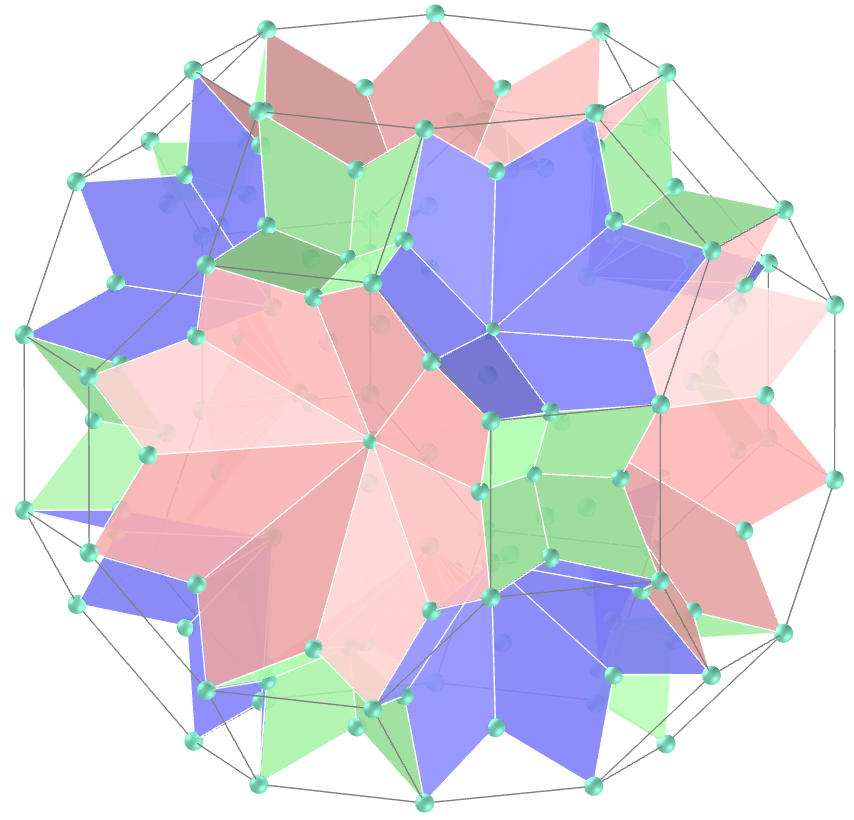
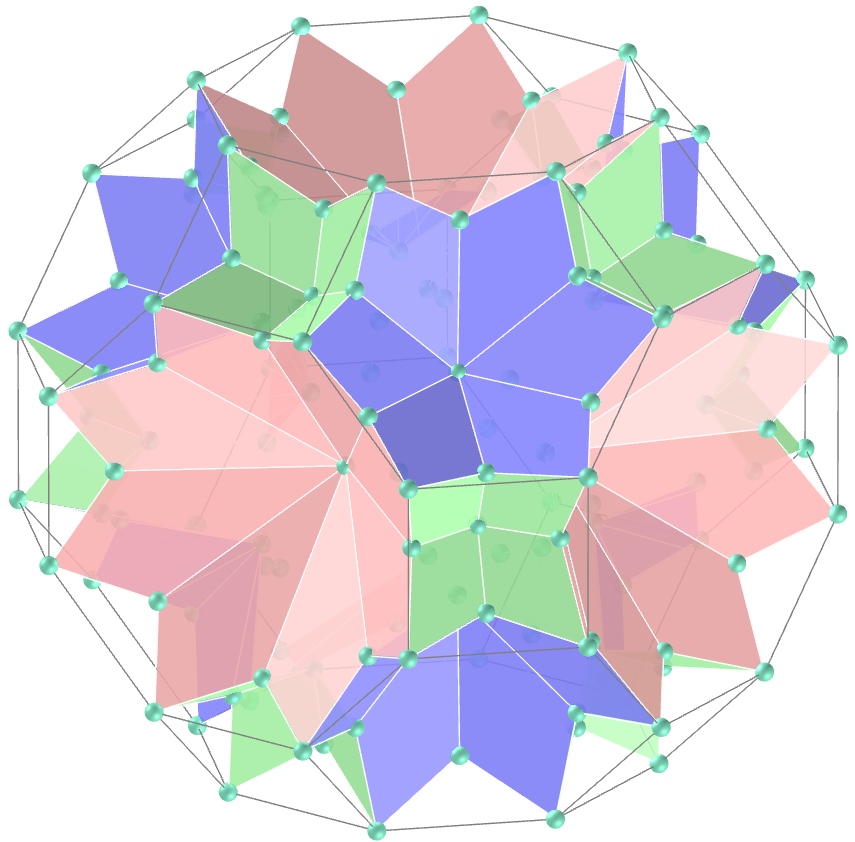
update

diff --git a/kites/vr/Truncated_Dodecahedron.htm b/kites/vr/Truncated_Dodecahedron.htm
@@ -102,7 +102,7 @@
 			<a-sphere mixin='esfera' position='1.590665722 1.358590722 1.734095962'></a-sphere>
 			<a-sphere mixin='esfera' position='0.839655241 1.358590722 2.198245962'></a-sphere>
 			<a-sphere mixin='esfera' position='0.232075 0.839655241 2.573751203'></a-sphere>
-			<a-sphere mixin='esfera' position='0.720221153 -0 1.165342307'></a-sphere>
+			<a-sphere mixin='esfera' position='0.7236750256 -0 1.1709307902'></a-sphere>
 			<a-sphere mixin='esfera' position='0 0 -2.717181443'></a-sphere>
 			<a-sphere mixin='esfera' position='-0.232075 -0.839655241 -2.573751203'></a-sphere>
 			<a-sphere mixin='esfera' position='-0.839655241 -1.358590722 -2.198245962'></a-sphere>
@@ -113,7 +113,7 @@
 			<a-sphere mixin='esfera' position='-1.590665722 1.358590722 -1.734095962'></a-sphere>
 			<a-sphere mixin='esfera' position='-0.839655241 1.358590722 -2.198245962'></a-sphere>
 			<a-sphere mixin='esfera' position='-0.232075 0.839655241 -2.573751203'></a-sphere>
-			<a-sphere mixin='esfera' position='-0.720221153 -0 -1.165342307'></a-sphere>
+			<a-sphere mixin='esfera' position='-0.7236750256 -0 -1.1709307902'></a-sphere>
 			<a-sphere mixin='esfera' position='0 0 2.717181443'></a-sphere>
 			<a-sphere mixin='esfera' position='-0.232075 0.839655241 2.573751203'></a-sphere>
 			<a-sphere mixin='esfera' position='-0.839655241 1.358590722 2.198245962'></a-sphere>
@@ -124,7 +124,7 @@
 			<a-sphere mixin='esfera' position='-1.590665722 -1.358590722 1.734095962'></a-sphere>
 			<a-sphere mixin='esfera' position='-0.839655241 -1.358590722 2.198245962'></a-sphere>
 			<a-sphere mixin='esfera' position='-0.232075 -0.839655241 2.573751203'></a-sphere>
-			<a-sphere mixin='esfera' position='-0.720221153 0 1.165342307'></a-sphere>
+			<a-sphere mixin='esfera' position='-0.7236750256 0 1.1709307902'></a-sphere>
 			<a-sphere mixin='esfera' position='0 0 -2.717181443'></a-sphere>
 			<a-sphere mixin='esfera' position='0.232075 0.839655241 -2.573751203'></a-sphere>
 			<a-sphere mixin='esfera' position='0.839655241 1.358590722 -2.198245962'></a-sphere>
@@ -135,7 +135,7 @@
 			<a-sphere mixin='esfera' position='1.590665722 -1.358590722 -1.734095962'></a-sphere>
 			<a-sphere mixin='esfera' position='0.839655241 -1.358590722 -2.198245962'></a-sphere>
 			<a-sphere mixin='esfera' position='0.232075 -0.839655241 -2.573751203'></a-sphere>
-			<a-sphere mixin='esfera' position='0.720221153 0 -1.165342307'></a-sphere>
+			<a-sphere mixin='esfera' position='0.7236750256 0 -1.1709307902'></a-sphere>
 			<a-sphere mixin='esfera' position='2.717181443 0 0'></a-sphere>
 			<a-sphere mixin='esfera' position='2.573751203 0.232075 -0.839655241'></a-sphere>
 			<a-sphere mixin='esfera' position='2.198245962 0.839655241 -1.358590722'></a-sphere>
@@ -146,7 +146,7 @@
 			<a-sphere mixin='esfera' position='1.734095962 1.590665722 1.358590722'></a-sphere>
 			<a-sphere mixin='esfera' position='2.198245962 0.839655241 1.358590722'></a-sphere>
 			<a-sphere mixin='esfera' position='2.573751203 0.232075 0.839655241'></a-sphere>
-			<a-sphere mixin='esfera' position='1.165342307 0.720221153 -0'></a-sphere>
+			<a-sphere mixin='esfera' position='1.1709307902 0.7236750256 -0'></a-sphere>
 			<a-sphere mixin='esfera' position='2.717181443 0 0'></a-sphere>
 			<a-sphere mixin='esfera' position='2.573751203 -0.232075 0.839655241'></a-sphere>
 			<a-sphere mixin='esfera' position='2.198245962 -0.839655241 1.358590722'></a-sphere>
@@ -157,7 +157,7 @@
 			<a-sphere mixin='esfera' position='1.734095962 -1.590665722 -1.358590722'></a-sphere>
 			<a-sphere mixin='esfera' position='2.198245962 -0.839655241 -1.358590722'></a-sphere>
 			<a-sphere mixin='esfera' position='2.573751203 -0.232075 -0.839655241'></a-sphere>
-			<a-sphere mixin='esfera' position='1.165342307 -0.720221153 0'></a-sphere>
+			<a-sphere mixin='esfera' position='1.1709307902 -0.7236750256 0'></a-sphere>
 			<a-sphere mixin='esfera' position='-2.717181443 0 0'></a-sphere>
 			<a-sphere mixin='esfera' position='-2.573751203 -0.232075 -0.839655241'></a-sphere>
 			<a-sphere mixin='esfera' position='-2.198245962 -0.839655241 -1.358590722'></a-sphere>
@@ -168,7 +168,7 @@
 			<a-sphere mixin='esfera' position='-1.734095962 -1.590665722 1.358590722'></a-sphere>
 			<a-sphere mixin='esfera' position='-2.198245962 -0.839655241 1.358590722'></a-sphere>
 			<a-sphere mixin='esfera' position='-2.573751203 -0.232075 0.839655241'></a-sphere>
-			<a-sphere mixin='esfera' position='-1.165342307 -0.720221153 -0'></a-sphere>
+			<a-sphere mixin='esfera' position='-1.1709307902 -0.7236750256 -0'></a-sphere>
 			<a-sphere mixin='esfera' position='-2.717181443 0 0'></a-sphere>
 			<a-sphere mixin='esfera' position='-2.573751203 0.232075 0.839655241'></a-sphere>
 			<a-sphere mixin='esfera' position='-2.198245962 0.839655241 1.358590722'></a-sphere>
@@ -179,7 +179,7 @@
 			<a-sphere mixin='esfera' position='-1.734095962 1.590665722 -1.358590722'></a-sphere>
 			<a-sphere mixin='esfera' position='-2.198245962 0.839655241 -1.358590722'></a-sphere>
 			<a-sphere mixin='esfera' position='-2.573751203 0.232075 -0.839655241'></a-sphere>
-			<a-sphere mixin='esfera' position='-1.165342307 0.720221153 0'></a-sphere>
+			<a-sphere mixin='esfera' position='-1.1709307902 0.7236750256 0'></a-sphere>
 			<a-sphere mixin='esfera' position='0 2.717181443 0'></a-sphere>
 			<a-sphere mixin='esfera' position='-0.839655241 2.573751203 0.232075'></a-sphere>
 			<a-sphere mixin='esfera' position='-1.358590722 2.198245962 0.839655241'></a-sphere>
@@ -190,7 +190,7 @@
 			<a-sphere mixin='esfera' position='1.358590722 1.734095962 1.590665722'></a-sphere>
 			<a-sphere mixin='esfera' position='1.358590722 2.198245962 0.839655241'></a-sphere>
 			<a-sphere mixin='esfera' position='0.839655241 2.573751203 0.232075'></a-sphere>
-			<a-sphere mixin='esfera' position='-0 1.165342307 0.720221153'></a-sphere>
+			<a-sphere mixin='esfera' position='-0 1.1709307902 0.7236750256'></a-sphere>
 			<a-sphere mixin='esfera' position='0 -2.717181443 0'></a-sphere>
 			<a-sphere mixin='esfera' position='-0.839655241 -2.573751203 -0.232075'></a-sphere>
 			<a-sphere mixin='esfera' position='-1.358590722 -2.198245962 -0.839655241'></a-sphere>
@@ -201,7 +201,7 @@
 			<a-sphere mixin='esfera' position='1.358590722 -1.734095962 -1.590665722'></a-sphere>
 			<a-sphere mixin='esfera' position='1.358590722 -2.198245962 -0.839655241'></a-sphere>
 			<a-sphere mixin='esfera' position='0.839655241 -2.573751203 -0.232075'></a-sphere>
-			<a-sphere mixin='esfera' position='-0 -1.165342307 -0.720221153'></a-sphere>
+			<a-sphere mixin='esfera' position='-0 -1.1709307902 -0.7236750256'></a-sphere>
 			<a-sphere mixin='esfera' position='0 2.717181443 0'></a-sphere>
 			<a-sphere mixin='esfera' position='0.839655241 2.573751203 -0.232075'></a-sphere>
 			<a-sphere mixin='esfera' position='1.358590722 2.198245962 -0.839655241'></a-sphere>
@@ -212,7 +212,7 @@
 			<a-sphere mixin='esfera' position='-1.358590722 1.734095962 -1.590665722'></a-sphere>
 			<a-sphere mixin='esfera' position='-1.358590722 2.198245962 -0.839655241'></a-sphere>
 			<a-sphere mixin='esfera' position='-0.839655241 2.573751203 -0.232075'></a-sphere>
-			<a-sphere mixin='esfera' position='0 1.165342307 -0.720221153'></a-sphere>
+			<a-sphere mixin='esfera' position='0 1.1709307902 -0.7236750256'></a-sphere>
 			<a-sphere mixin='esfera' position='0 -2.717181443 0'></a-sphere>
 			<a-sphere mixin='esfera' position='0.839655241 -2.573751203 0.232075'></a-sphere>
 			<a-sphere mixin='esfera' position='1.358590722 -2.198245962 0.839655241'></a-sphere>
@@ -223,7 +223,7 @@
 			<a-sphere mixin='esfera' position='-1.358590722 -1.734095962 1.590665722'></a-sphere>
 			<a-sphere mixin='esfera' position='-1.358590722 -2.198245962 0.839655241'></a-sphere>
 			<a-sphere mixin='esfera' position='-0.839655241 -2.573751203 0.232075'></a-sphere>
-			<a-sphere mixin='esfera' position='0 -1.165342307 0.720221153'></a-sphere>
+			<a-sphere mixin='esfera' position='0 -1.1709307902 0.7236750256'></a-sphere>
 			<a-sphere mixin='esfera' position='-0.232075 0.839655241 -2.573751203'></a-sphere>
 			<a-sphere mixin='esfera' position='0 1.215160481 -2.430320962'></a-sphere>
 			<a-sphere mixin='esfera' position='0.232075 0.839655241 -2.573751203'></a-sphere>
@@ -271,35 +271,35 @@
 			<a-sphere mixin='esfera' position='1.590665722 1.358590722 1.734095962'></a-sphere>
 			<a-sphere mixin='esfera' position='1.734095962 1.590665722 1.358590722'></a-sphere>
 			<a-sphere mixin='esfera' position='1.358590722 1.734095962 1.590665722'></a-sphere>
-			<a-sphere mixin='esfera' position='1.525633704 1.525633704 1.525633704'></a-sphere>
+			<a-sphere mixin='esfera' position='1.5246776724 1.5246776724 1.5246776724'></a-sphere>
 			<a-sphere mixin='esfera' position='1.358590722 1.734095962 -1.590665722'></a-sphere>
 			<a-sphere mixin='esfera' position='1.734095962 1.590665722 -1.358590722'></a-sphere>
 			<a-sphere mixin='esfera' position='1.590665722 1.358590722 -1.734095962'></a-sphere>
-			<a-sphere mixin='esfera' position='1.525633704 1.525633704 -1.525633704'></a-sphere>
+			<a-sphere mixin='esfera' position='1.5246776724 1.5246776724 -1.5246776724'></a-sphere>
 			<a-sphere mixin='esfera' position='1.358590722 -1.734095962 1.590665722'></a-sphere>
 			<a-sphere mixin='esfera' position='1.734095962 -1.590665722 1.358590722'></a-sphere>
 			<a-sphere mixin='esfera' position='1.590665722 -1.358590722 1.734095962'></a-sphere>
-			<a-sphere mixin='esfera' position='1.525633704 -1.525633704 1.525633704'></a-sphere>
+			<a-sphere mixin='esfera' position='1.5246776724 -1.5246776724 1.5246776724'></a-sphere>
 			<a-sphere mixin='esfera' position='1.590665722 -1.358590722 -1.734095962'></a-sphere>
 			<a-sphere mixin='esfera' position='1.734095962 -1.590665722 -1.358590722'></a-sphere>
 			<a-sphere mixin='esfera' position='1.358590722 -1.734095962 -1.590665722'></a-sphere>
-			<a-sphere mixin='esfera' position='1.525633704 -1.525633704 -1.525633704'></a-sphere>
+			<a-sphere mixin='esfera' position='1.5246776724 -1.5246776724 -1.5246776724'></a-sphere>
 			<a-sphere mixin='esfera' position='-1.358590722 1.734095962 1.590665722'></a-sphere>
 			<a-sphere mixin='esfera' position='-1.734095962 1.590665722 1.358590722'></a-sphere>
 			<a-sphere mixin='esfera' position='-1.590665722 1.358590722 1.734095962'></a-sphere>
-			<a-sphere mixin='esfera' position='-1.525633704 1.525633704 1.525633704'></a-sphere>
+			<a-sphere mixin='esfera' position='-1.5246776724 1.5246776724 1.5246776724'></a-sphere>
 			<a-sphere mixin='esfera' position='-1.590665722 1.358590722 -1.734095962'></a-sphere>
 			<a-sphere mixin='esfera' position='-1.734095962 1.590665722 -1.358590722'></a-sphere>
 			<a-sphere mixin='esfera' position='-1.358590722 1.734095962 -1.590665722'></a-sphere>
-			<a-sphere mixin='esfera' position='-1.525633704 1.525633704 -1.525633704'></a-sphere>
+			<a-sphere mixin='esfera' position='-1.5246776724 1.5246776724 -1.5246776724'></a-sphere>
 			<a-sphere mixin='esfera' position='-1.590665722 -1.358590722 1.734095962'></a-sphere>
 			<a-sphere mixin='esfera' position='-1.734095962 -1.590665722 1.358590722'></a-sphere>
 			<a-sphere mixin='esfera' position='-1.358590722 -1.734095962 1.590665722'></a-sphere>
-			<a-sphere mixin='esfera' position='-1.525633704 -1.525633704 1.525633704'></a-sphere>
+			<a-sphere mixin='esfera' position='-1.5246776724 -1.5246776724 1.5246776724'></a-sphere>
 			<a-sphere mixin='esfera' position='-1.358590722 -1.734095962 -1.590665722'></a-sphere>
 			<a-sphere mixin='esfera' position='-1.734095962 -1.590665722 -1.358590722'></a-sphere>
 			<a-sphere mixin='esfera' position='-1.590665722 -1.358590722 -1.734095962'></a-sphere>
-			<a-sphere mixin='esfera' position='-1.525633704 -1.525633704 -1.525633704'></a-sphere>
+			<a-sphere mixin='esfera' position='-1.5246776724 -1.5246776724 -1.5246776724'></a-sphere>
 		</a-entity>
 		
 		<a-box mixin="piso" class="piso" visible="false" position="0 -1.5 0"></a-box>
